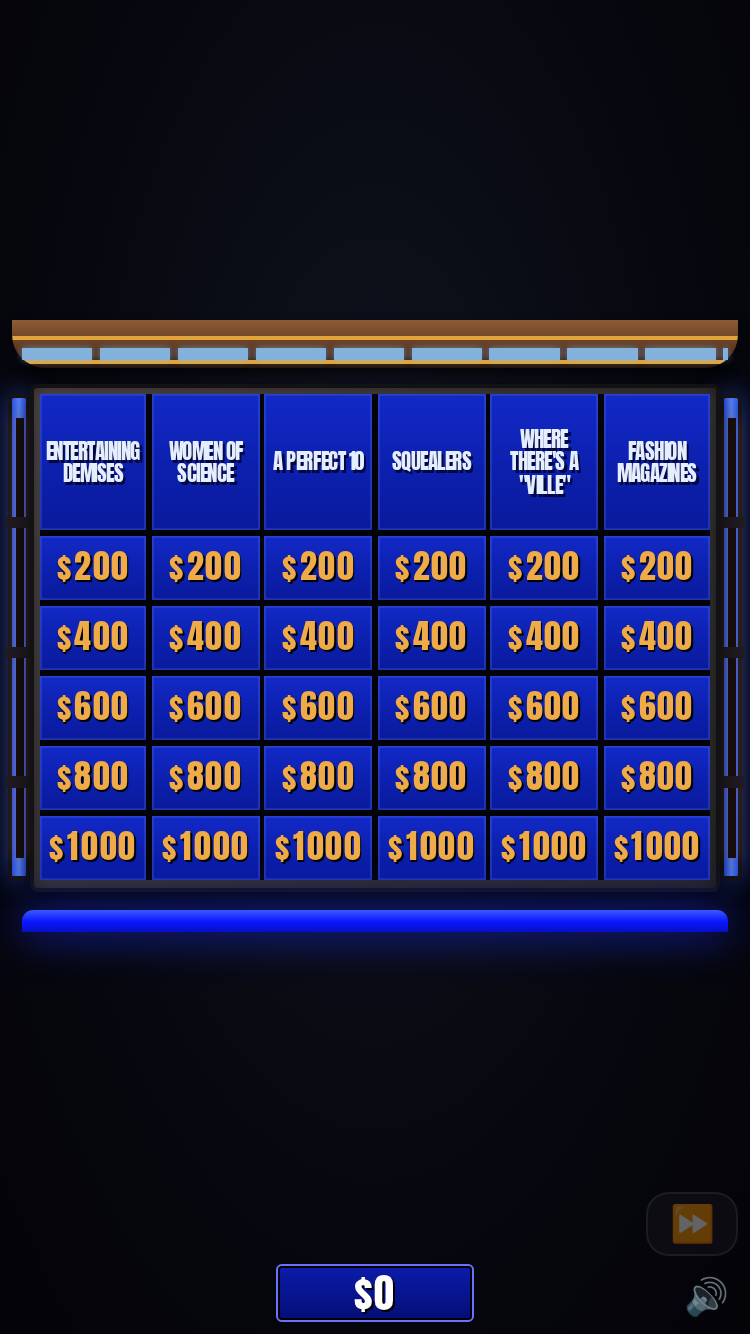
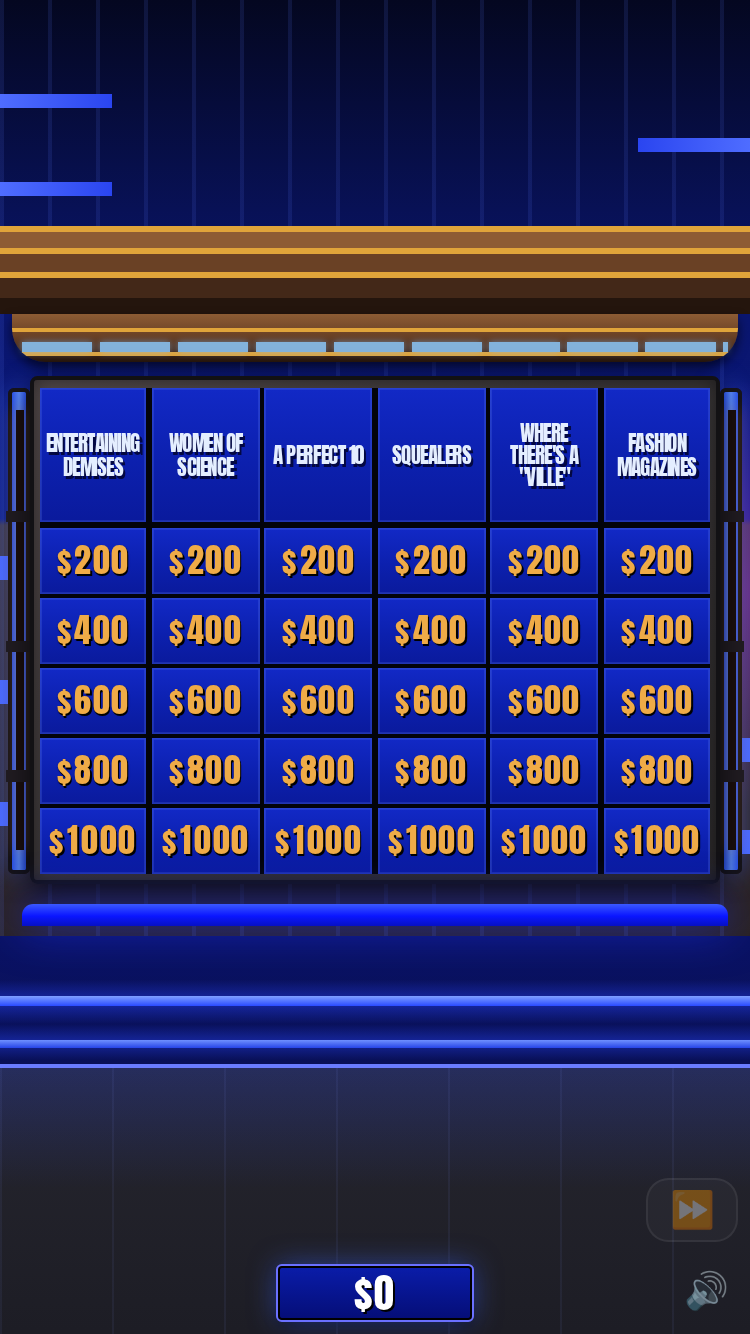
Stage dressing (wall, header stack, floor, side light bars, podium), clue text -15%, +1s before next clue, new comparison

diff --git a/index.html b/index.html
@@ -212,6 +212,59 @@ body.kb .foot{min-height:0}
 /* categories: condensed Anton, tight tracking, one size per board */
 .set .cat,.pr-cat{font-family:Anton,Impact,'Arial Narrow',sans-serif!important;font-weight:400!important;letter-spacing:-.02em!important}
 
+/* ===== Stage dressing: wall above, podium floor below (positions from --top/--bot set in JS) ===== */
+#app.dark{--top:200px;--bot:520px;--s:1px;
+ background:
+  /* podium panel behind score box */
+  linear-gradient(#6a7cff,#6a7cff) 0 calc(var(--bot) + 64px)/100% 2px no-repeat,
+  repeating-linear-gradient(90deg,rgba(130,150,255,.07) 0 1px,transparent 1px 56px) 0 calc(var(--bot) + 66px)/100% 100% no-repeat,
+  linear-gradient(180deg,rgba(40,70,255,.22),transparent 60px) 0 calc(var(--bot) + 66px)/100% 60px no-repeat,
+  linear-gradient(180deg,#26262f,#14141b 40%,#0a0a10) 0 calc(var(--bot) + 64px)/100% 100% no-repeat,
+  /* blue light bands on the floor (bright core + soft glow) */
+  linear-gradient(#7fa0ff,#2a4bff) 0 calc(var(--bot) + 30px)/100% 5px no-repeat,
+  linear-gradient(rgba(40,70,255,.0),rgba(40,70,255,.45),rgba(40,70,255,0)) 0 calc(var(--bot) + 22px)/100% 22px no-repeat,
+  linear-gradient(#6f90ff,#2644e8) 0 calc(var(--bot) + 52px)/100% 4px no-repeat,
+  linear-gradient(rgba(40,70,255,0),rgba(40,70,255,.4),rgba(40,70,255,0)) 0 calc(var(--bot) + 44px)/100% 18px no-repeat,
+  /* floor base */
+  linear-gradient(180deg,#0a1263 0,#060b3a 35%,#04061f 100%) 0 var(--bot)/100% 100% no-repeat,
+  /* gold/brown header stack above the set band */
+  linear-gradient(180deg,#e0a43a 0 3px,#8d5c34 3px 11px,#e0a43a 11px 14px,#6a4125 14px 23px,#e0a43a 23px 26px,#432818 26px 36px,#24150d 36px 44px) 0 calc(var(--top) - 44px)/100% 44px no-repeat,
+  /* wall light bars, left and right */
+  linear-gradient(90deg,#4f6dff,#2a45f0) 0 calc(var(--top) + (var(--bot) - var(--top))*.39)/12% calc(var(--s)*13) no-repeat,
+  linear-gradient(90deg,#4f6dff,#2a45f0) 0 calc(var(--top) + (var(--bot) - var(--top))*.59)/12% calc(var(--s)*13) no-repeat,
+  linear-gradient(90deg,#4f6dff,#2a45f0) 0 calc(var(--top) + (var(--bot) - var(--top))*.785)/12% calc(var(--s)*13) no-repeat,
+  linear-gradient(270deg,#4f6dff,#2a45f0) 100% calc(var(--top) + (var(--bot) - var(--top))*.68)/12% calc(var(--s)*13) no-repeat,
+  linear-gradient(270deg,#4f6dff,#2a45f0) 100% calc(var(--top) + (var(--bot) - var(--top))*.83)/12% calc(var(--s)*13) no-repeat,
+  linear-gradient(90deg,#4f6dff,#2a45f0) 0 calc(var(--top)*.30)/15% 7px no-repeat,
+  linear-gradient(90deg,#4f6dff,#2a45f0) 0 calc(var(--top)*.58)/15% 7px no-repeat,
+  linear-gradient(270deg,#4f6dff,#2a45f0) 100% calc(var(--top)*.44)/15% 7px no-repeat,
+  linear-gradient(270deg,#4f6dff,#2a45f0) 100% calc(var(--top)*.72)/15% 7px no-repeat,
+  /* purple stage tint at right */
+  radial-gradient(ellipse 22% 16% at 100% calc(var(--top) + (var(--bot) - var(--top))*.45),rgba(150,40,190,.55),transparent),
+  /* wall ribs + color */
+  repeating-linear-gradient(90deg,rgba(90,120,255,.13) 0 2px,transparent 2px 24px),
+  linear-gradient(180deg,#040720 0,#0a1670 var(--top),#0b1775 calc(var(--top) + (var(--bot) - var(--top))*.33),#41342e calc(var(--top) + (var(--bot) - var(--top))*.34),#2a2220 var(--bot));
+ background-color:#04061c}
+#app.dark #hud{background:none;padding-top:max(10px,1.6vmin)}
+#app.dark #hud .scorebox{box-shadow:0 0 14px rgba(60,100,255,.55),0 3px 6px rgba(0,0,0,.6)}
+/* side wall panels inside the set (landscape): blue wall on top, brown paneling with blue light bars below */
+.set .sl,.set .sr{opacity:1}
+.set .sl{background:
+ linear-gradient(#4a66ff,#2038e0) 0 calc(var(--s)*226)/100% calc(var(--s)*13) no-repeat,
+ linear-gradient(#4a66ff,#2038e0) 0 calc(var(--s)*340)/100% calc(var(--s)*13) no-repeat,
+ linear-gradient(#4a66ff,#2038e0) 0 calc(var(--s)*453)/100% calc(var(--s)*13) no-repeat,
+ linear-gradient(180deg,transparent 0 calc(var(--s)*195),#3b2f2b calc(var(--s)*196),#4b3c34 55%,#2a2220 100%),
+ repeating-linear-gradient(90deg,#0a1394 0 calc(var(--s)*5),#0c19b8 calc(var(--s)*5) calc(var(--s)*10)),#0a1394}
+.set .sr{background:
+ linear-gradient(#4a66ff,#2038e0) 0 calc(var(--s)*392)/100% calc(var(--s)*13) no-repeat,
+ linear-gradient(#4a66ff,#2038e0) 0 calc(var(--s)*476)/100% calc(var(--s)*13) no-repeat,
+ linear-gradient(#e0a43a,#e0a43a) 0 calc(var(--s)*118)/100% calc(var(--s)*3) no-repeat,
+ linear-gradient(#6a4125,#432818) 0 calc(var(--s)*121)/100% calc(var(--s)*18) no-repeat,
+ linear-gradient(#e0a43a,#e0a43a) 0 calc(var(--s)*139)/100% calc(var(--s)*3) no-repeat,
+ linear-gradient(#86b9e6,#5f8fc4) 0 calc(var(--s)*146)/100% calc(var(--s)*6) no-repeat,
+ linear-gradient(180deg,transparent 0 calc(var(--s)*196),rgba(150,40,190,.85) calc(var(--s)*200),rgba(120,34,160,.85) calc(var(--s)*330),#4b3c34 calc(var(--s)*334),#2a2220 100%),
+ repeating-linear-gradient(90deg,#0a1394 0 calc(var(--s)*5),#0c19b8 calc(var(--s)*5) calc(var(--s)*10)),#0a1394}
+
 </style>
 </head>
 <body>
@@ -296,7 +349,7 @@ function fit(box,el,max,min=9){
 /* TV-set layout: every rect is in "design pixels" of a reference screenshot (landscape 1024x577) or a compact phone variant */
 const LAYOUT={
  land:{W:1024,H:577,gap:5,hdr:1,
-  band:[28,0,962,66],strip:[40,41,938,12],sl:[0,0,70,235],sr:[954,0,70,235],pl:[72,84,58,446],pr:[890,84,58,446],
+  band:[28,0,962,66],strip:[40,41,938,12],sl:[0,0,70,577],sr:[954,0,70,577],pl:[72,84,58,446],pr:[890,84,58,446],
   bezel:[138,78,746,462],board:[171,101,680,402],glow:[40,548,940,29]},
  port:{W:400,H:336,gap:3,hdr:2.1,
   band:[4,0,392,26],strip:[10,15,380,6],sl:[0,0,0,0],sr:[0,0,0,0],pl:[2,40,12,262],pr:[386,40,12,262],
@@ -312,12 +365,14 @@ function sizeBoard(){
   put('.band',L.band);put('.strip',L.strip);put('.sl',L.sl);put('.sr',L.sr);put('.pl',L.pl);put('.pr',L.pr);put('.bezel',L.bezel);put('.board',L.board);put('.glow',L.glow);
   const [bx,by,bw,bh]=L.board,gap=L.gap*s,cw=(bw*s-5*gap)/6,ch=(bh*s-5*gap)/(5+L.hdr),hh=ch*L.hdr;
   const b=set.querySelector('.board');b.style.gap=gap+'px';b.style.gridTemplateRows=`${hh}px repeat(5,${ch}px)`;
+  const sr=set.getBoundingClientRect(),ar=appEl.getBoundingClientRect();
+  appEl.style.setProperty('--top',(sr.top-ar.top)+'px');appEl.style.setProperty('--bot',(sr.bottom-ar.top)+'px');appEl.style.setProperty('--s',s+'px');
   return {cw,ch,hh,s};
 }
 function fitAll(){
   const vm=Math.min(innerWidth,innerHeight),portrait=innerWidth<innerHeight;
   const clue=document.querySelector('.clue:not(.ans)');
-  if(clue)fit(clue,clue.firstElementChild,portrait?Math.min(26,vm*.07):Math.min(40,vm*.058),12);
+  if(clue)fit(clue,clue.firstElementChild,portrait?Math.min(22,vm*.06):Math.min(34,vm*.05),12);
   const cc=document.querySelector('.banner .cc');
   if(cc)fit(cc.parentElement,cc,Math.min(vm*.11,84),14);
   const bd=document.querySelector('.board');
@@ -373,7 +428,7 @@ function intro(){
 function startRound(r){
   clearTimers();G.round=r;G.used=new Set();G.curCol=-1;G.stay=0;
   renderBoard();renderHud();setState('board');
-  later(pickNext,R(2600));
+  later(pickNext,R(3600));
 }
 function renderBoard(flashKey){
   const rd=SHOW.rounds[G.round];
@@ -626,7 +681,7 @@ function nextAfterResult(){
   if(G.state!=='result')return;
   clearTimers();
   if(G.last.mode==='final')return endScreen();
-  setState('board');renderBoard();renderHud();later(pickNext,R(1900));
+  setState('board');renderBoard();renderHud();later(pickNext,R(2900));
 }
 
 /* ---------- round end / final ---------- */

diff --git a/src/style.css b/src/style.css
@@ -190,3 +190,56 @@ body.kb .foot{min-height:0}
 .set .cat span{overflow-wrap:normal!important;word-break:normal!important;hyphens:none!important}
 /* categories: condensed Anton, tight tracking, one size per board */
 .set .cat,.pr-cat{font-family:Anton,Impact,'Arial Narrow',sans-serif!important;font-weight:400!important;letter-spacing:-.02em!important}
+
+/* ===== Stage dressing: wall above, podium floor below (positions from --top/--bot set in JS) ===== */
+#app.dark{--top:200px;--bot:520px;--s:1px;
+ background:
+  /* podium panel behind score box */
+  linear-gradient(#6a7cff,#6a7cff) 0 calc(var(--bot) + 64px)/100% 2px no-repeat,
+  repeating-linear-gradient(90deg,rgba(130,150,255,.07) 0 1px,transparent 1px 56px) 0 calc(var(--bot) + 66px)/100% 100% no-repeat,
+  linear-gradient(180deg,rgba(40,70,255,.22),transparent 60px) 0 calc(var(--bot) + 66px)/100% 60px no-repeat,
+  linear-gradient(180deg,#26262f,#14141b 40%,#0a0a10) 0 calc(var(--bot) + 64px)/100% 100% no-repeat,
+  /* blue light bands on the floor (bright core + soft glow) */
+  linear-gradient(#7fa0ff,#2a4bff) 0 calc(var(--bot) + 30px)/100% 5px no-repeat,
+  linear-gradient(rgba(40,70,255,.0),rgba(40,70,255,.45),rgba(40,70,255,0)) 0 calc(var(--bot) + 22px)/100% 22px no-repeat,
+  linear-gradient(#6f90ff,#2644e8) 0 calc(var(--bot) + 52px)/100% 4px no-repeat,
+  linear-gradient(rgba(40,70,255,0),rgba(40,70,255,.4),rgba(40,70,255,0)) 0 calc(var(--bot) + 44px)/100% 18px no-repeat,
+  /* floor base */
+  linear-gradient(180deg,#0a1263 0,#060b3a 35%,#04061f 100%) 0 var(--bot)/100% 100% no-repeat,
+  /* gold/brown header stack above the set band */
+  linear-gradient(180deg,#e0a43a 0 3px,#8d5c34 3px 11px,#e0a43a 11px 14px,#6a4125 14px 23px,#e0a43a 23px 26px,#432818 26px 36px,#24150d 36px 44px) 0 calc(var(--top) - 44px)/100% 44px no-repeat,
+  /* wall light bars, left and right */
+  linear-gradient(90deg,#4f6dff,#2a45f0) 0 calc(var(--top) + (var(--bot) - var(--top))*.39)/12% calc(var(--s)*13) no-repeat,
+  linear-gradient(90deg,#4f6dff,#2a45f0) 0 calc(var(--top) + (var(--bot) - var(--top))*.59)/12% calc(var(--s)*13) no-repeat,
+  linear-gradient(90deg,#4f6dff,#2a45f0) 0 calc(var(--top) + (var(--bot) - var(--top))*.785)/12% calc(var(--s)*13) no-repeat,
+  linear-gradient(270deg,#4f6dff,#2a45f0) 100% calc(var(--top) + (var(--bot) - var(--top))*.68)/12% calc(var(--s)*13) no-repeat,
+  linear-gradient(270deg,#4f6dff,#2a45f0) 100% calc(var(--top) + (var(--bot) - var(--top))*.83)/12% calc(var(--s)*13) no-repeat,
+  linear-gradient(90deg,#4f6dff,#2a45f0) 0 calc(var(--top)*.30)/15% 7px no-repeat,
+  linear-gradient(90deg,#4f6dff,#2a45f0) 0 calc(var(--top)*.58)/15% 7px no-repeat,
+  linear-gradient(270deg,#4f6dff,#2a45f0) 100% calc(var(--top)*.44)/15% 7px no-repeat,
+  linear-gradient(270deg,#4f6dff,#2a45f0) 100% calc(var(--top)*.72)/15% 7px no-repeat,
+  /* purple stage tint at right */
+  radial-gradient(ellipse 22% 16% at 100% calc(var(--top) + (var(--bot) - var(--top))*.45),rgba(150,40,190,.55),transparent),
+  /* wall ribs + color */
+  repeating-linear-gradient(90deg,rgba(90,120,255,.13) 0 2px,transparent 2px 24px),
+  linear-gradient(180deg,#040720 0,#0a1670 var(--top),#0b1775 calc(var(--top) + (var(--bot) - var(--top))*.33),#41342e calc(var(--top) + (var(--bot) - var(--top))*.34),#2a2220 var(--bot));
+ background-color:#04061c}
+#app.dark #hud{background:none;padding-top:max(10px,1.6vmin)}
+#app.dark #hud .scorebox{box-shadow:0 0 14px rgba(60,100,255,.55),0 3px 6px rgba(0,0,0,.6)}
+/* side wall panels inside the set (landscape): blue wall on top, brown paneling with blue light bars below */
+.set .sl,.set .sr{opacity:1}
+.set .sl{background:
+ linear-gradient(#4a66ff,#2038e0) 0 calc(var(--s)*226)/100% calc(var(--s)*13) no-repeat,
+ linear-gradient(#4a66ff,#2038e0) 0 calc(var(--s)*340)/100% calc(var(--s)*13) no-repeat,
+ linear-gradient(#4a66ff,#2038e0) 0 calc(var(--s)*453)/100% calc(var(--s)*13) no-repeat,
+ linear-gradient(180deg,transparent 0 calc(var(--s)*195),#3b2f2b calc(var(--s)*196),#4b3c34 55%,#2a2220 100%),
+ repeating-linear-gradient(90deg,#0a1394 0 calc(var(--s)*5),#0c19b8 calc(var(--s)*5) calc(var(--s)*10)),#0a1394}
+.set .sr{background:
+ linear-gradient(#4a66ff,#2038e0) 0 calc(var(--s)*392)/100% calc(var(--s)*13) no-repeat,
+ linear-gradient(#4a66ff,#2038e0) 0 calc(var(--s)*476)/100% calc(var(--s)*13) no-repeat,
+ linear-gradient(#e0a43a,#e0a43a) 0 calc(var(--s)*118)/100% calc(var(--s)*3) no-repeat,
+ linear-gradient(#6a4125,#432818) 0 calc(var(--s)*121)/100% calc(var(--s)*18) no-repeat,
+ linear-gradient(#e0a43a,#e0a43a) 0 calc(var(--s)*139)/100% calc(var(--s)*3) no-repeat,
+ linear-gradient(#86b9e6,#5f8fc4) 0 calc(var(--s)*146)/100% calc(var(--s)*6) no-repeat,
+ linear-gradient(180deg,transparent 0 calc(var(--s)*196),rgba(150,40,190,.85) calc(var(--s)*200),rgba(120,34,160,.85) calc(var(--s)*330),#4b3c34 calc(var(--s)*334),#2a2220 100%),
+ repeating-linear-gradient(90deg,#0a1394 0 calc(var(--s)*5),#0c19b8 calc(var(--s)*5) calc(var(--s)*10)),#0a1394}

diff --git a/src/app.js b/src/app.js
@@ -70,7 +70,7 @@ function fit(box,el,max,min=9){
 /* TV-set layout: every rect is in "design pixels" of a reference screenshot (landscape 1024x577) or a compact phone variant */
 const LAYOUT={
  land:{W:1024,H:577,gap:5,hdr:1,
-  band:[28,0,962,66],strip:[40,41,938,12],sl:[0,0,70,235],sr:[954,0,70,235],pl:[72,84,58,446],pr:[890,84,58,446],
+  band:[28,0,962,66],strip:[40,41,938,12],sl:[0,0,70,577],sr:[954,0,70,577],pl:[72,84,58,446],pr:[890,84,58,446],
   bezel:[138,78,746,462],board:[171,101,680,402],glow:[40,548,940,29]},
  port:{W:400,H:336,gap:3,hdr:2.1,
   band:[4,0,392,26],strip:[10,15,380,6],sl:[0,0,0,0],sr:[0,0,0,0],pl:[2,40,12,262],pr:[386,40,12,262],
@@ -86,12 +86,14 @@ function sizeBoard(){
   put('.band',L.band);put('.strip',L.strip);put('.sl',L.sl);put('.sr',L.sr);put('.pl',L.pl);put('.pr',L.pr);put('.bezel',L.bezel);put('.board',L.board);put('.glow',L.glow);
   const [bx,by,bw,bh]=L.board,gap=L.gap*s,cw=(bw*s-5*gap)/6,ch=(bh*s-5*gap)/(5+L.hdr),hh=ch*L.hdr;
   const b=set.querySelector('.board');b.style.gap=gap+'px';b.style.gridTemplateRows=`${hh}px repeat(5,${ch}px)`;
+  const sr=set.getBoundingClientRect(),ar=appEl.getBoundingClientRect();
+  appEl.style.setProperty('--top',(sr.top-ar.top)+'px');appEl.style.setProperty('--bot',(sr.bottom-ar.top)+'px');appEl.style.setProperty('--s',s+'px');
   return {cw,ch,hh,s};
 }
 function fitAll(){
   const vm=Math.min(innerWidth,innerHeight),portrait=innerWidth<innerHeight;
   const clue=document.querySelector('.clue:not(.ans)');
-  if(clue)fit(clue,clue.firstElementChild,portrait?Math.min(26,vm*.07):Math.min(40,vm*.058),12);
+  if(clue)fit(clue,clue.firstElementChild,portrait?Math.min(22,vm*.06):Math.min(34,vm*.05),12);
   const cc=document.querySelector('.banner .cc');
   if(cc)fit(cc.parentElement,cc,Math.min(vm*.11,84),14);
   const bd=document.querySelector('.board');
@@ -147,7 +149,7 @@ function intro(){
 function startRound(r){
   clearTimers();G.round=r;G.used=new Set();G.curCol=-1;G.stay=0;
   renderBoard();renderHud();setState('board');
-  later(pickNext,R(2600));
+  later(pickNext,R(3600));
 }
 function renderBoard(flashKey){
   const rd=SHOW.rounds[G.round];
@@ -400,7 +402,7 @@ function nextAfterResult(){
   if(G.state!=='result')return;
   clearTimers();
   if(G.last.mode==='final')return endScreen();
-  setState('board');renderBoard();renderHud();later(pickNext,R(1900));
+  setState('board');renderBoard();renderHud();later(pickNext,R(2900));
 }
 
 /* ---------- round end / final ---------- */

diff --git a/tools/shot_boards.py b/tools/shot_boards.py
@@ -1,0 +1,12 @@
+from playwright.sync_api import sync_playwright
+import pathlib
+root=pathlib.Path(__file__).resolve().parent.parent
+u=(root/'index.html').as_uri()
+with sync_playwright() as p:
+    b=p.chromium.launch()
+    for n,vp,m in (('m',{'width':390,'height':844},1),('m375',{'width':375,'height':667},1),('d',{'width':1024,'height':577},0)):
+        pg=b.new_page(viewport=vp,device_scale_factor=2 if m else 1,is_mobile=bool(m),has_touch=bool(m))
+        pg.clock.install(); pg.goto(u+'?ep=9434'); pg.click('#go'); pg.wait_for_selector('#set'); pg.evaluate('document.fonts.ready'); pg.clock.run_for(500); pg.evaluate("dispatchEvent(new Event('resize'))"); pg.clock.run_for(100)
+        pg.screenshot(path=str(root/f'screenshots/{n}-board.png'))
+        pg.evaluate("__startRound('DJ')"); pg.clock.run_for(500); pg.evaluate("dispatchEvent(new Event('resize'))"); pg.clock.run_for(100)
+        pg.screenshot(path=str(root/f'screenshots/{n}-board-dj.png'))
